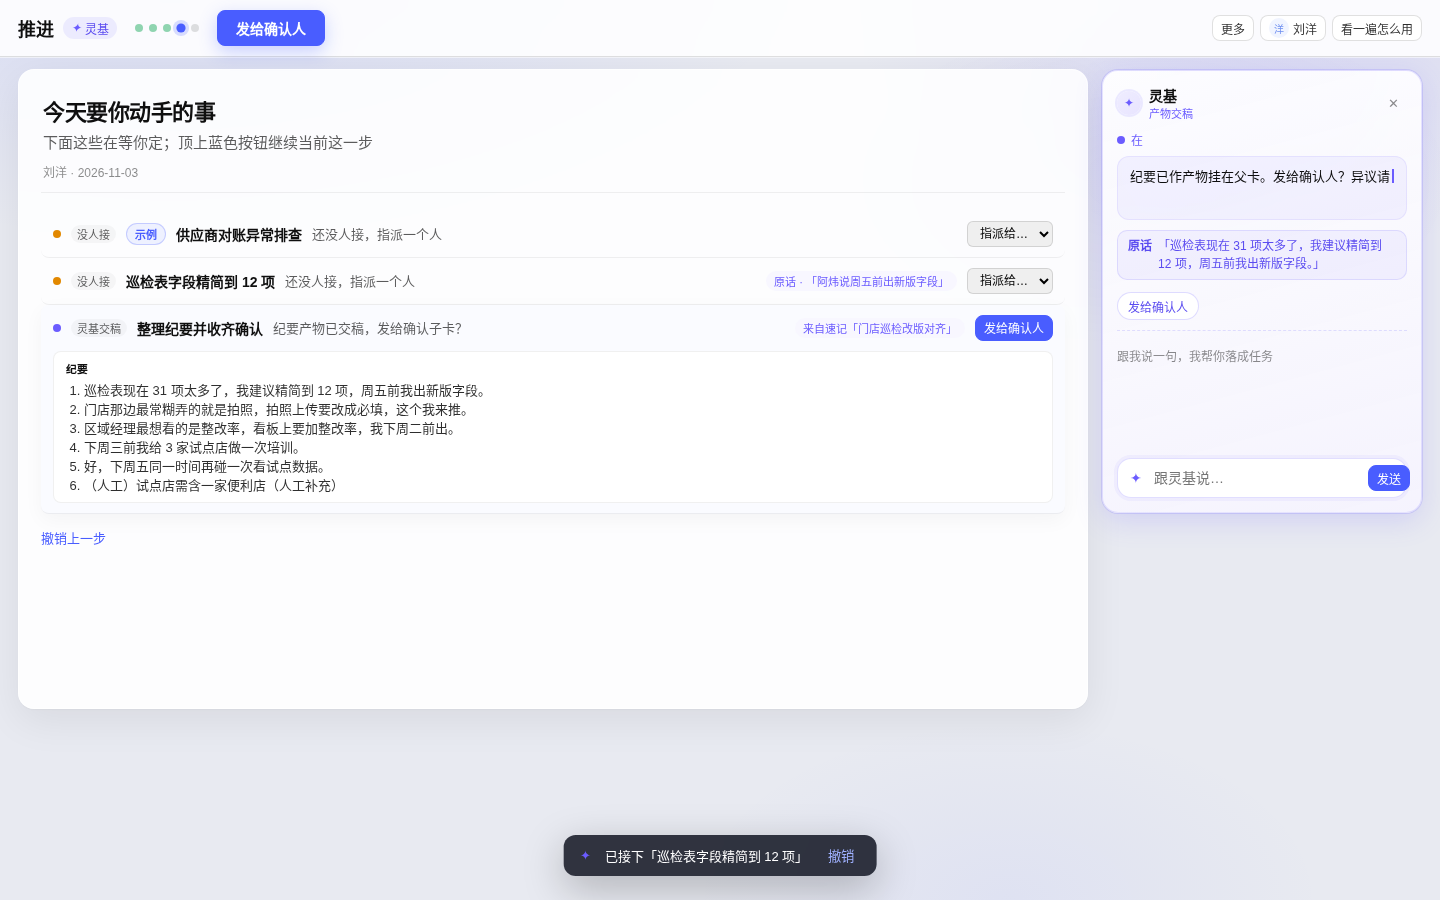
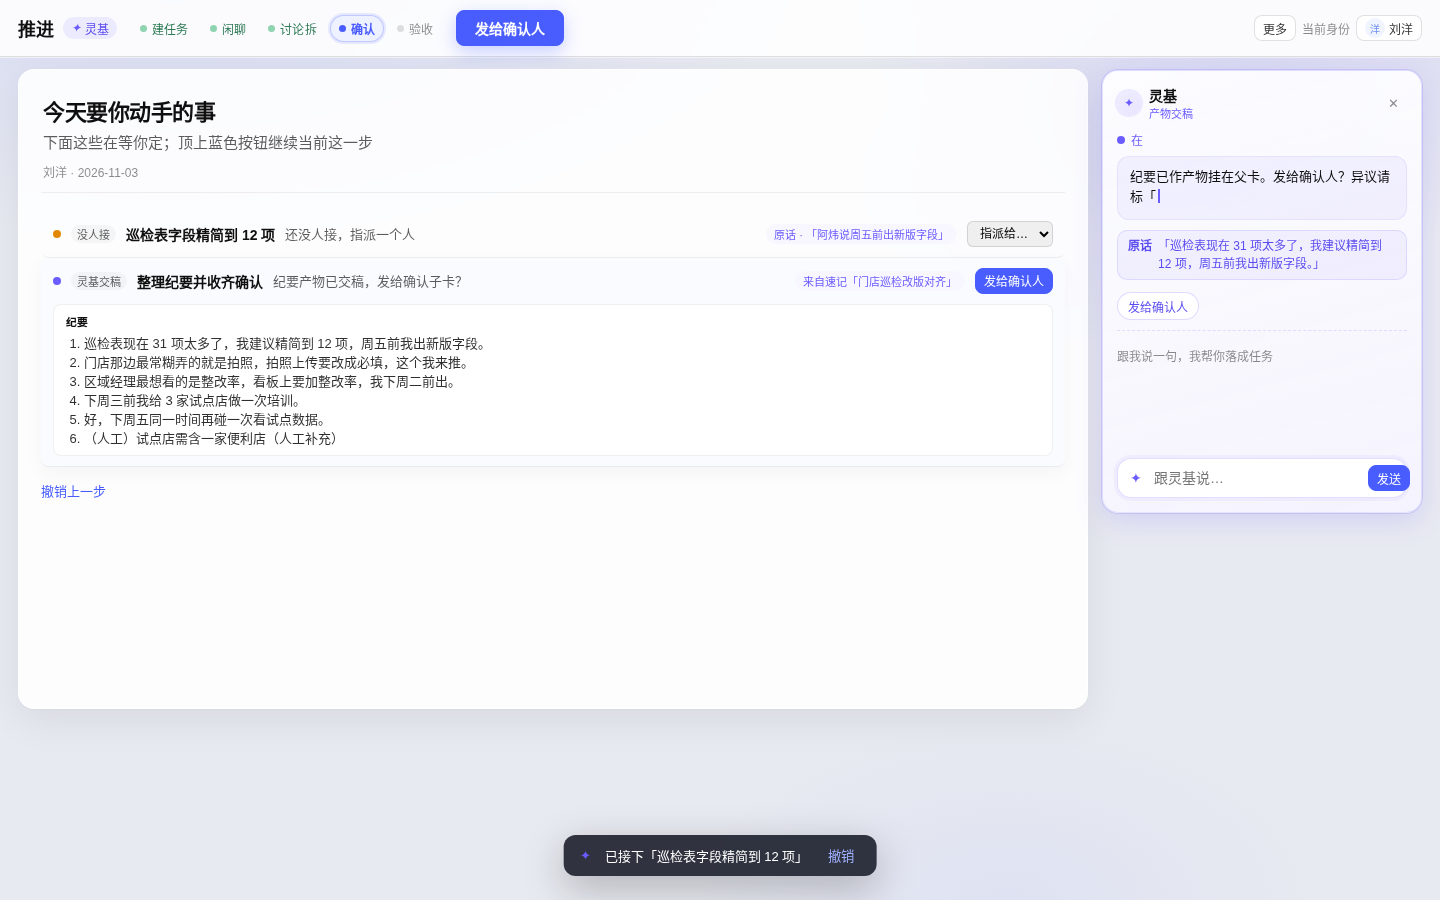
Home clarity: labeled flow, empty board, one demo link
Make first glance obvious: always-visible 建任务/闲聊/讨论拆/确认/验收,
当前身份 + tip, drop seed row stealing focus, 生成纪要稿 CTA wording,
hero-only 看一遍怎么用, tip restore under 更多→显示用法.

diff --git a/src/App.tsx b/src/App.tsx
@@ -1,7 +1,7 @@
 import { useEffect, useReducer, useRef, useState, useCallback } from 'react'
 import { A, ADV_ID, FLOW_STEPS, FlowStep, initial, Overlay, reduce, ROLES, S, STATE_CN, Task, TODAY, TRANSCRIPT, WEEK, focusRows, FocusRow, Who, TState, STENO_ID } from './store'
 
-const KEY = 'advance-flow-v6'
+const KEY = 'advance-flow-v7'
 type H = { cur: S; past: S[] }
 function hreduce(h: H, a: A | { type: 'undo' }): H {
   if (a.type === 'undo') return h.past.length ? { cur: { ...h.past[0], toast: '已撤销' }, past: h.past.slice(1) } : h
@@ -49,7 +49,7 @@ export function nextStep(s: S): { id: string; label: string; run: (dispatch: (a:
   const due = first('到期')
   if (due) return { id: 'due', label: '提交验收', run: d => d({ type: 'setState', id: due.task.id, state: 'in_review' }) }
   const lingeeDoing = s.tasks.find(t => t.assignee === '灵基' && t.kind === 'minutes' && t.state === 'in_progress')
-  if (lingeeDoing) return { id: 'lingeeSubmit', label: '（模拟）灵基写完', run: d => d({ type: 'lingeeSubmit', id: lingeeDoing.id }) }
+  if (lingeeDoing) return { id: 'lingeeSubmit', label: '生成纪要稿', run: d => d({ type: 'lingeeSubmit', id: lingeeDoing.id }) }
 
   // 三条入口按链路发现，不并排三张卡
   const hasDirect = s.tasks.some(t => t.source?.type === 'direct')
@@ -121,19 +121,22 @@ export default function App() {
               {archives.filter(([v]) => v !== 'focus').map(([v, n]) =>
                 <button key={v} data-testid={`nav-${v}`} onClick={() => { dispatch({ type: 'view', view: v }); setMoreOpen(false) }}>{n}</button>)}
               <button data-testid="chain-toggle" onClick={() => { setChainOpen(v => !v); setMoreOpen(false) }}>{chainOpen ? '收起链路' : '看链路细节'}</button>
+              {!tipOn && <button data-testid="show-tip" onClick={() => { try { localStorage.removeItem('advance-flow-tip-v1') } catch {} setTipOn(true); setMoreOpen(false) }}>显示用法</button>}
               <button onClick={() => { d({ type: 'undo' }); setMoreOpen(false) }} disabled={!h.past.length}>撤销</button>
               <button onClick={() => { localStorage.removeItem(KEY); dispatch({ type: 'reset' }); setMoreOpen(false) }}>一键重置</button>
             </div>}
           </div>
-          <div className="menu-wrap">
+          <div className="menu-wrap role-wrap">
+            <span className="role-label">当前身份</span>
             <button className="ghost sm role-btn" data-testid="role-menu" onClick={() => { setRoleOpen(v => !v); setMoreOpen(false) }}>
               <Av who={s.role} s="s20" />{s.role}
             </button>
+            <span className="role-hint" data-testid="role-hint">切换身份可看确认/验收</span>
             {roleOpen && <div className="menu glass" data-testid="role-menu-panel">
+              <p className="role-tip">演示切换身份，才能看到确认 / 验收</p>
               {ROLES.map(r => <button key={r.name} data-testid={`role-${r.name}`} className={s.role === r.name ? 'on' : ''} onClick={() => { dispatch({ type: 'role', role: r.name }); setRoleOpen(false) }}><Av who={r.name} s="s20" />{r.name}<small>{r.tag}</small></button>)}
             </div>}
           </div>
-          <button className="ghost sm" data-testid="demo" onClick={() => { if (!s.demo) { localStorage.removeItem(KEY); dispatch({ type: 'reset' }) } setTimeout(() => dispatch({ type: 'demo', on: !s.demo }), 50) }}>{s.demo ? '停止' : '看一遍怎么用'}</button>
         </div>
       </header>
 
@@ -193,7 +196,12 @@ function overlayTitle(o: Exclude<Overlay, null | 'chat'>) {
 
 function FlowDots({ flowStep }: { flowStep: FlowStep }) {
   return <div className="flow-dots" data-testid="flow-stepper" aria-label="进度">
-    {FLOW_STEPS.map(st => <i key={st.n} className={st.n === flowStep ? 'cur' : st.n < flowStep ? 'past' : ''} title={st.name} />)}
+    {FLOW_STEPS.map(st => (
+      <span key={st.n} className={`flow-step ${st.n === flowStep ? 'cur' : st.n < flowStep ? 'past' : ''}`} data-step={st.n}>
+        <i aria-hidden />
+        <em>{st.name}</em>
+      </span>
+    ))}
   </div>
 }
 
@@ -446,23 +454,25 @@ function Focus({ s, dispatch, undo }: P & { undo: () => void }) {
   const hasDirect = s.tasks.some(t => t.source?.type === 'direct')
   const heroSub = hasDirect
     ? '下面这些在等你定；顶上蓝色按钮继续当前这一步'
-    : '先建一条任务，或点下面看一遍'
+    : '先点顶上蓝色「新建一条任务」；想先看流程，点下面链接'
   return <div className="focus" data-testid="board">
     <div className="board-hero" data-testid="board-hero">
       <h2>今天要你动手的事</h2>
       <p className="hero-sub">{heroSub}</p>
       {!hasDirect && (
         <button className="link hero-demo" data-testid="hero-demo" onClick={() => {
-          if (!s.demo) { localStorage.removeItem('advance-flow-v6'); dispatch({ type: 'reset' }) }
+          if (!s.demo) { localStorage.removeItem(KEY); dispatch({ type: 'reset' }) }
           setTimeout(() => dispatch({ type: 'demo', on: !s.demo }), 50)
         }}>{s.demo ? '停止演示' : '看一遍怎么用'}</button>
       )}
       <span className="weak hero-meta">{s.role} · {TODAY}</span>
     </div>
-    {rows.length === 0 && <div className="empty" data-testid="board-empty">今天清空了 🎉<div className="empty-hint">点顶上蓝色按钮继续，或右下角 ✦ 跟灵基说</div></div>}
+    {rows.length === 0 && <div className="empty" data-testid="board-empty">{hasDirect
+      ? <>今天清空了 🎉<div className="empty-hint">点顶上蓝色按钮继续，或右下角 ✦ 跟灵基说</div></>
+      : <>还没有要你定的事<div className="empty-hint">点顶上蓝色「新建一条任务」开始；想先看一遍，点上面链接</div></>}</div>}
     {rows.map(r => <div key={r.key} className={`frow ${open === r.key ? 'open' : ''}`} data-testid="frow" data-kind={r.kind} onClick={() => setOpen(r.key)}>
       <i className={`dot ${DOT[r.kind]}`} /><span className="kind">{r.kind}</span>
-      {r.task.sample && <span className="sample-tag" data-testid="sample-tag">示例</span>}
+      {r.task.sample && <span className="sample-tag" data-testid="sample-tag">示例（可忽略）</span>}
       <b>{r.task.title}</b><span className="line">{r.line}</span>
       {r.task.source && <button className="src" onClick={e => { e.stopPropagation(); dispatch({ type: 'jumpSource', line: r.task.source!.line ?? 0 }) }}>{r.task.source.label}</button>}
       <span className="acts" onClick={e => e.stopPropagation()}>{actions(r, s, dispatch, obj, setObj, objTarget, setObjTarget)}</span>
@@ -472,7 +482,7 @@ function Focus({ s, dispatch, undo }: P & { undo: () => void }) {
       </div>}
     </div>)}
     {lingeeDoing.length > 0 && <div className="lingee-doing"><h4><span className="spark">✦</span> 灵基在做</h4>{lingeeDoing.map(t => <div key={t.id} className="ld"><span>{t.title}{t.product ? ` · ${t.product}` : ''}</span>
-      {t.kind === 'minutes' && <button className="ghost sm" data-testid="lingee-submit" onClick={() => dispatch({ type: 'lingeeSubmit', id: t.id })}>（模拟）写完</button>}</div>)}</div>}
+      {t.kind === 'minutes' && <button className="ghost sm" data-testid="lingee-submit" onClick={() => dispatch({ type: 'lingeeSubmit', id: t.id })}>生成纪要稿</button>}</div>)}</div>}
     <p className="hint"><button className="link" onClick={undo}>撤销上一步</button></p>
   </div>
 }

diff --git a/src/style.css b/src/style.css
@@ -250,10 +250,19 @@ blockquote{margin:6px 0 0;padding:4px 8px;border-left:2px solid var(--lingee);ba
 .app.simple .top{gap:10px}
 .app.simple .brand .sub{display:none}
 .app.simple .cmd-trigger{display:none}
-.flow-dots{display:flex;align-items:center;gap:6px;padding:4px 8px}
-.flow-dots i{width:8px;height:8px;border-radius:50%;background:var(--line);display:inline-block}
-.flow-dots i.past{background:#8fd4b0}
-.flow-dots i.cur{background:var(--p);box-shadow:0 0 0 3px rgba(73,93,255,.2);transform:scale(1.15)}
+.flow-dots{display:flex;align-items:center;gap:4px;padding:2px 4px;flex-wrap:nowrap}
+.flow-dots .flow-step{display:inline-flex;align-items:center;gap:5px;padding:4px 8px;border-radius:999px;font-size:12px;color:var(--weak);white-space:nowrap;border:1px solid transparent}
+.flow-dots .flow-step i{width:7px;height:7px;border-radius:50%;background:var(--line);display:inline-block;flex:0 0 auto}
+.flow-dots .flow-step em{font-style:normal;font-weight:500;letter-spacing:.01em}
+.flow-dots .flow-step.past{color:#2f7a55}
+.flow-dots .flow-step.past i{background:#8fd4b0}
+.flow-dots .flow-step.cur{color:var(--p);background:#eef1ff;border-color:rgba(73,93,255,.28);font-weight:600;box-shadow:0 0 0 2px rgba(73,93,255,.12)}
+.flow-dots .flow-step.cur i{background:var(--p)}
+.flow-dots .flow-step.cur em{font-weight:700}
+.role-wrap{display:inline-flex;align-items:center;gap:6px}
+.role-label{font-size:12px;color:var(--weak);white-space:nowrap}
+.role-tip{margin:0 0 4px;padding:6px 10px;font-size:11px;line-height:1.4;color:var(--mut);max-width:200px}
+.role-hint{font-size:11px;color:var(--weak);white-space:nowrap;max-width:140px;overflow:hidden;text-overflow:ellipsis}
 .next-cta{height:36px!important;padding:0 18px!important;font-size:14px!important;font-weight:600}
 .top-right{margin-left:auto;display:flex;align-items:center;gap:6px}
 .menu-wrap{position:relative}

diff --git a/src/store.ts b/src/store.ts
@@ -36,7 +36,7 @@ export type View = 'focus' | 'calendar' | 'steno' | 'tasks' | 'yzj'
 export type Overlay = null | 'create' | 'chat' | 'room' | 'end'
 export type FlowStep = 1 | 2 | 3 | 4 | 5
 export const FLOW_STEPS: { n: FlowStep; name: string }[] = [
-  { n: 1, name: '直接建' },
+  { n: 1, name: '建任务' },
   { n: 2, name: '闲聊' },
   { n: 3, name: '讨论拆' },
   { n: 4, name: '确认' },
@@ -95,8 +95,6 @@ const seedTasks = (): Task[] => [
     consensus: ['先试点 3 家店', '表单精简优先'],
   },
   { id: 'adv_1188', title: 'Q4 门店评分口径复核', assignee: '张三', creator: '刘洋', state: 'in_progress', due: '2026-11-03', kind: 'task', comments: [], source: { type: 'steno', ref: SOURCE_KEY, line: 0, label: '来自速记「上周巡检对齐」' } },
-  // 首页只露出这一条 focus 行，让新人一眼看到「要动手」的样子
-  { id: 'adv_1190', title: '供应商对账异常排查', assignee: '', creator: '刘洋', state: 'suggested', due: '2026-11-06', kind: 'task', comments: [], sample: true },
   { id: 'adv_1195', title: '巡检 App 崩溃率周报', assignee: '老王', creator: '张三', state: 'suggested', due: '2026-11-05', kind: 'task', comments: [], source: { type: 'steno', ref: SOURCE_KEY, line: 2, label: '来自速记「上周巡检对齐」' } },
 ]
 

diff --git a/README.md b/README.md
@@ -4,7 +4,7 @@
 
 点顶上**蓝色按钮**（上面写着具体动词，比如「新建一条任务」「把讨论拆成任务」「确认纪要」「验收完成」）跟着走。  
 右下角 ✦ 是灵基气泡；「更多」里才有日历 / 速记 / 全部任务 / 云之家。  
-不会用？看首页提示条，或点 **「看一遍怎么用」**。
+不会用？看首页提示条；关掉后可在 **更多 → 显示用法** 再打开。英雄区有 **「看一遍怎么用」**。顶栏进度是「建任务 / 闲聊 / 讨论拆 / 确认 / 验收」。
 
 ## 模型（没变）
 推进是真相源。三条入口都在：直接建 / 闲聊落成 / 会后从速记拆——用蓝色按钮或灵基气泡发现，不并排三张卡。
